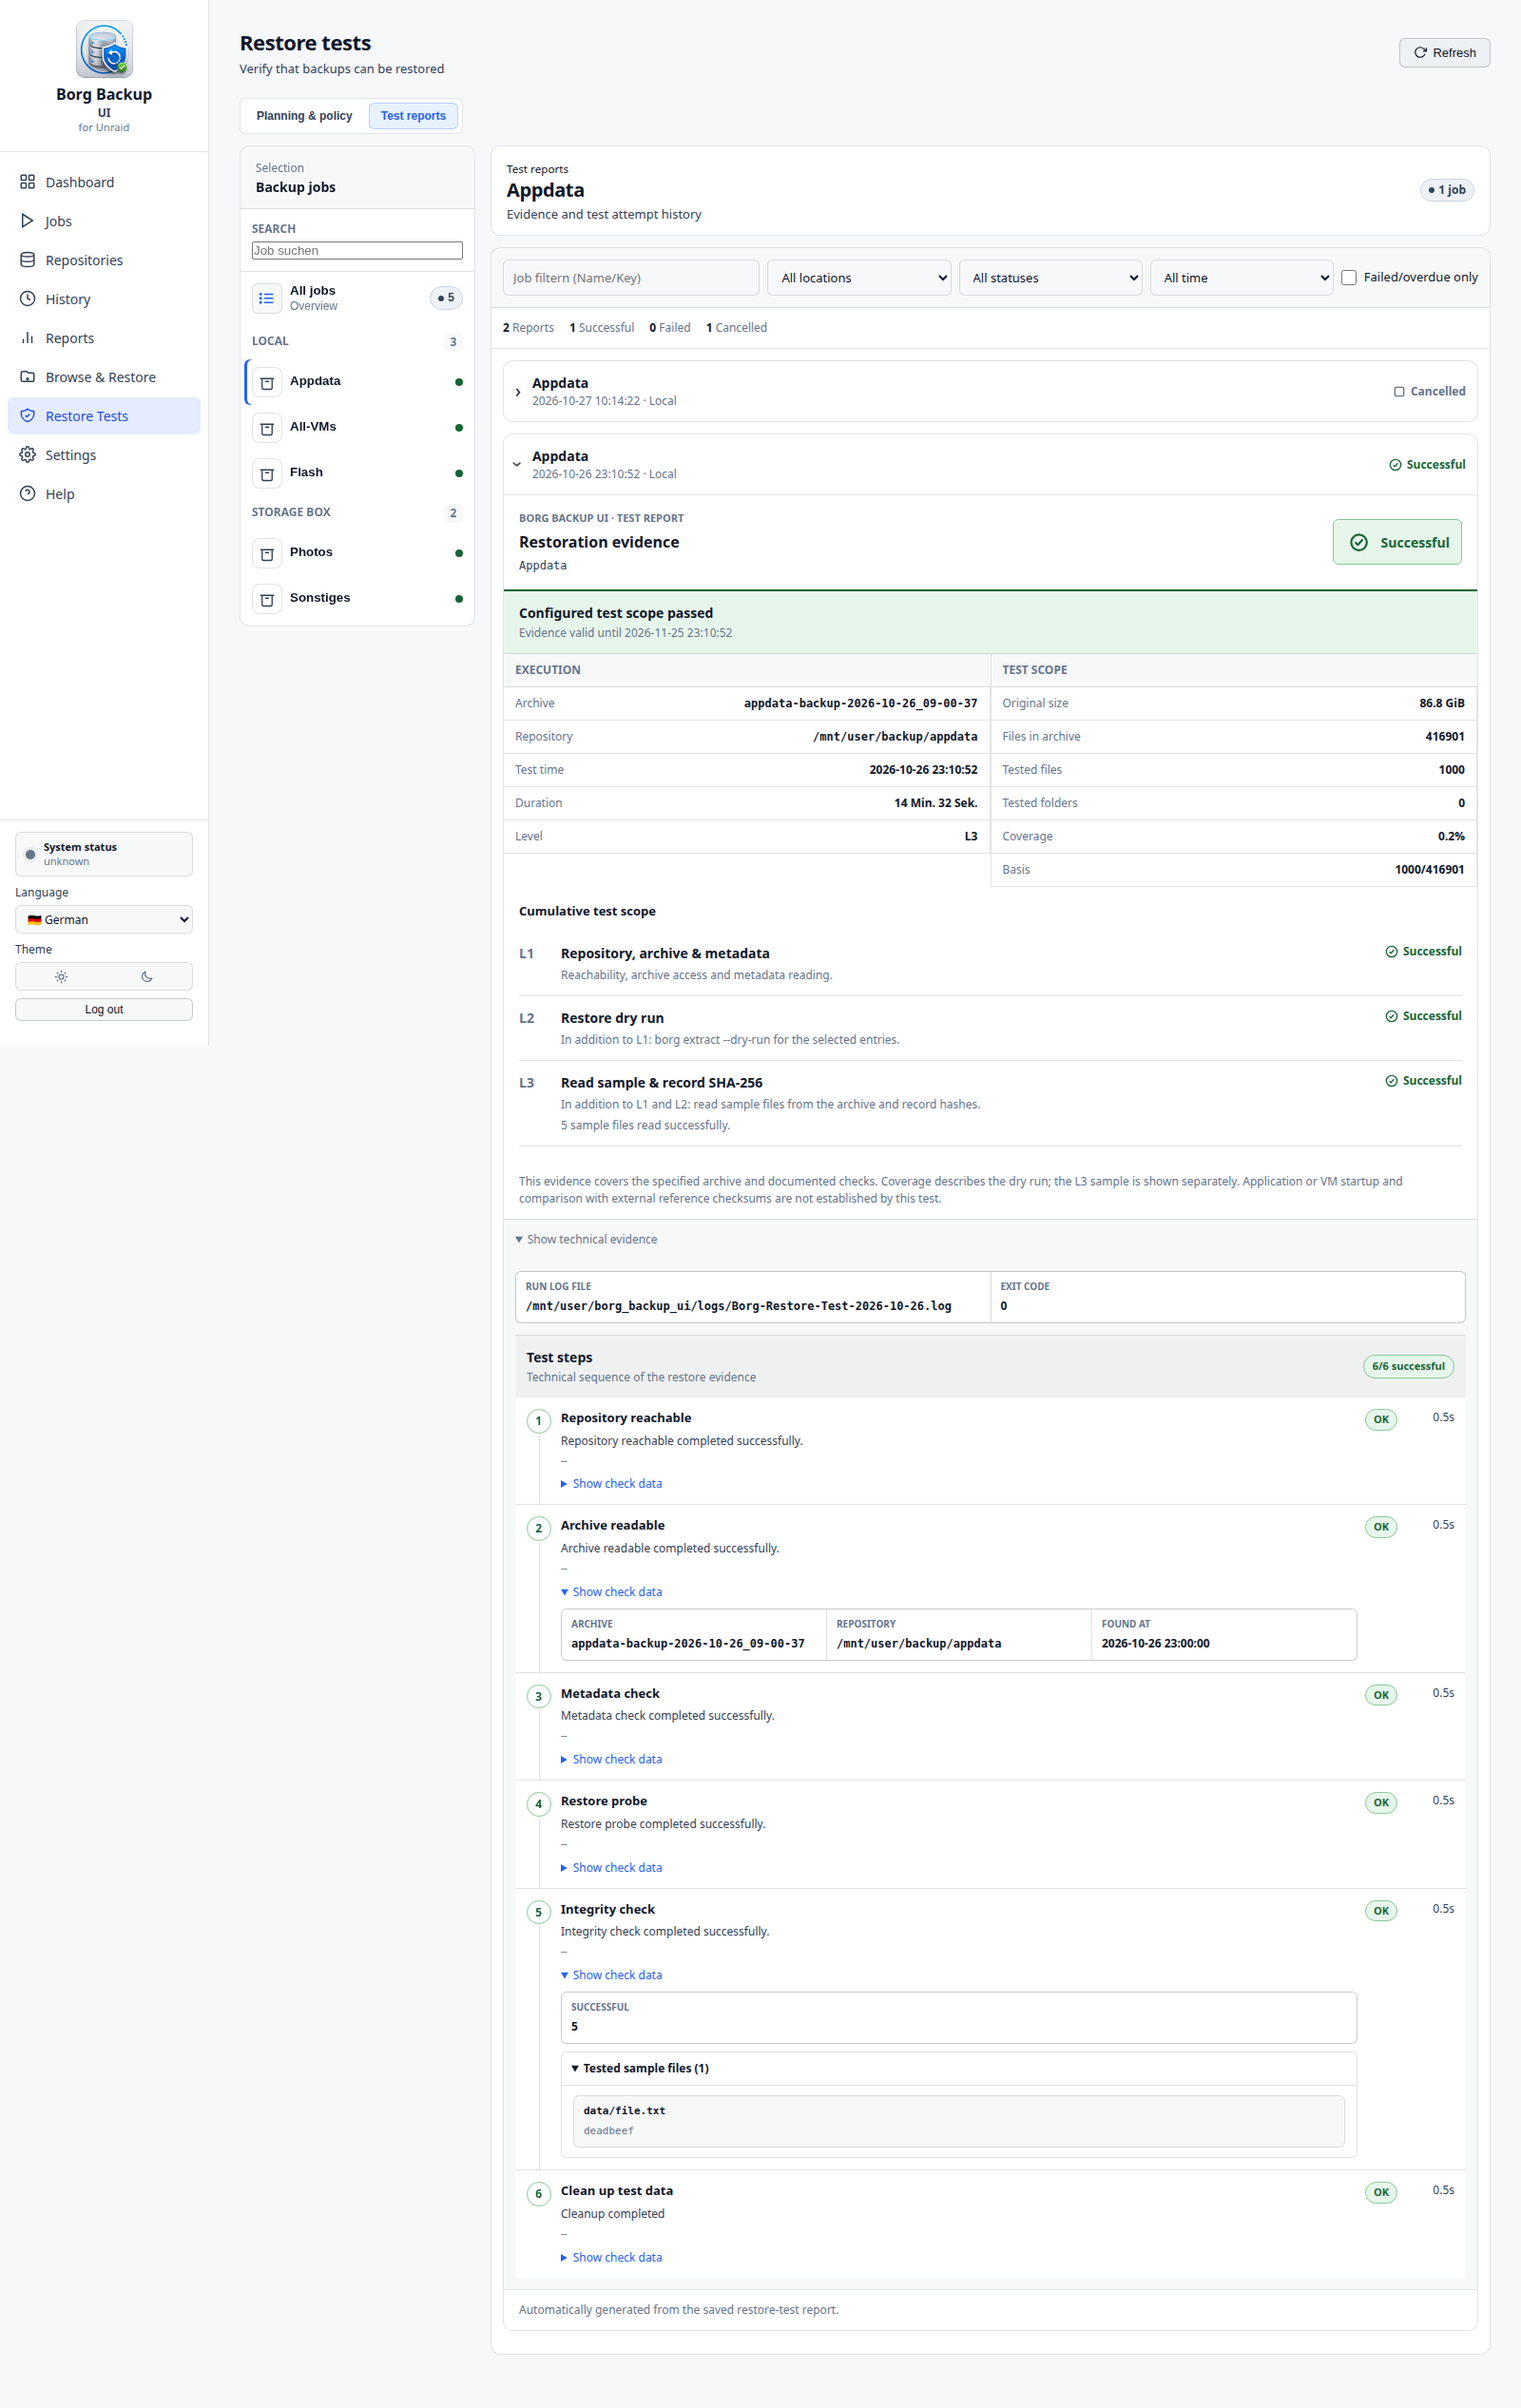
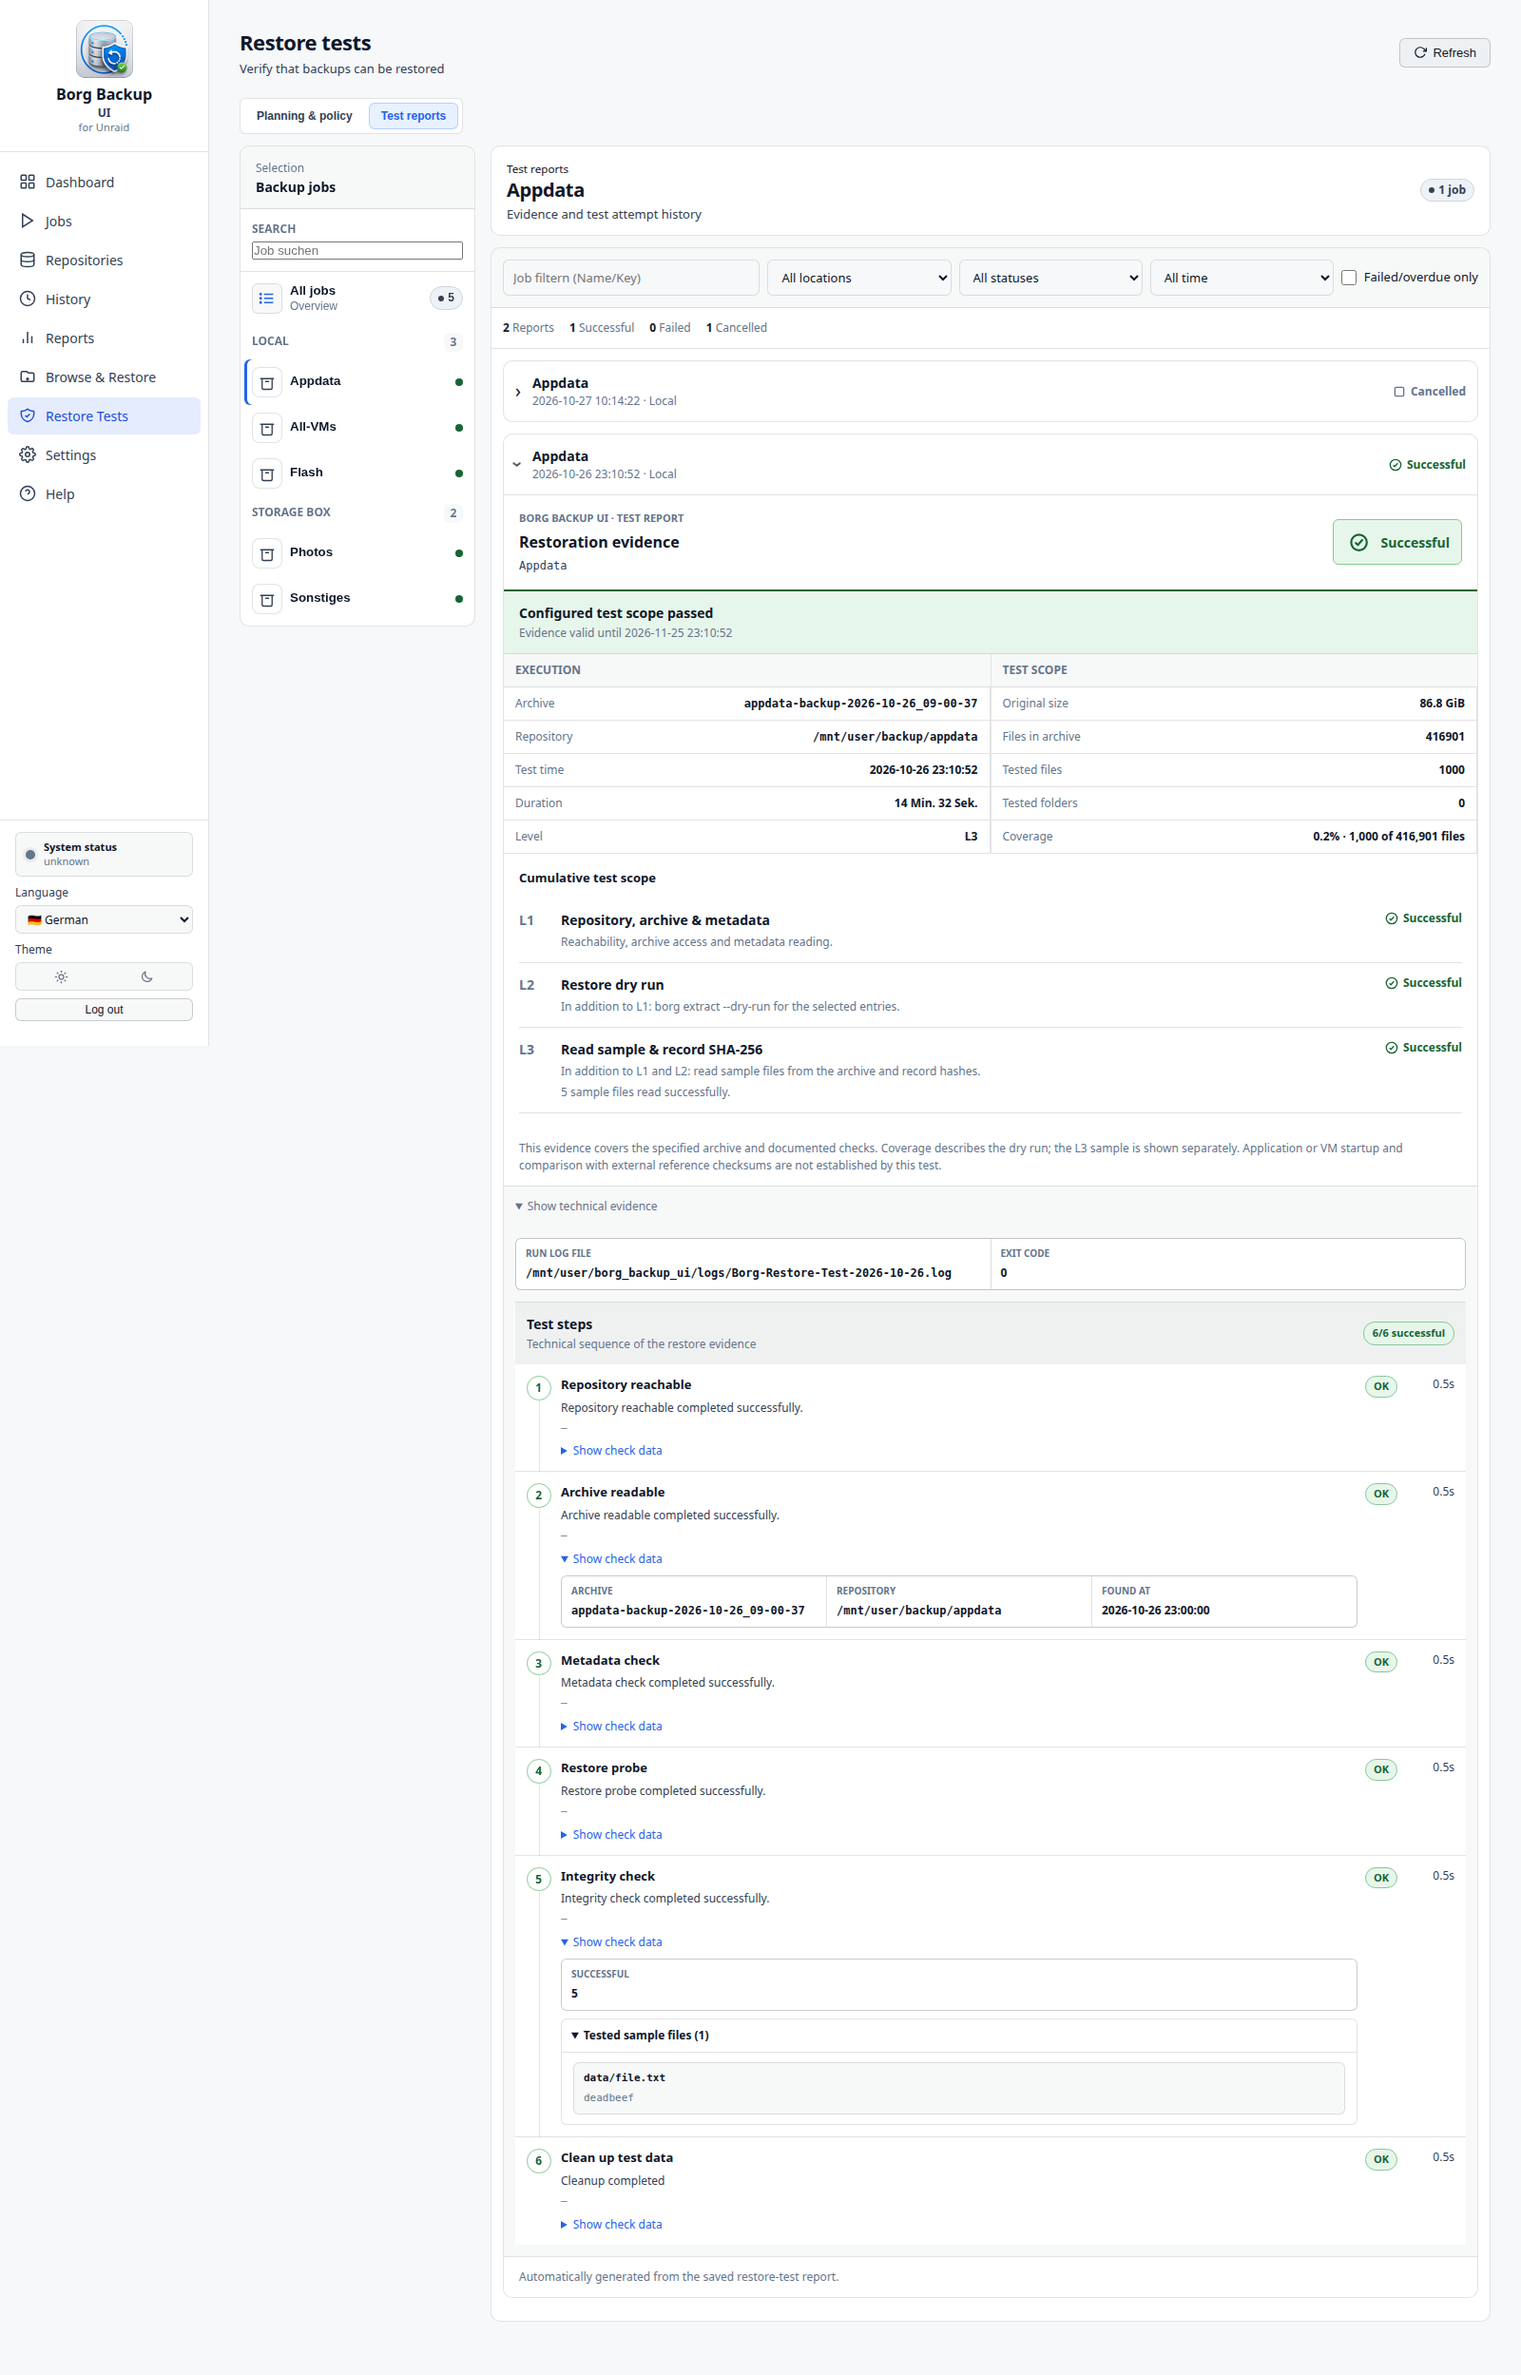
Combine restore coverage and file basis into one report row (#610)

diff --git a/ui/js/pages/restore-tests.js b/ui/js/pages/restore-tests.js
@@ -1030,6 +1030,22 @@ function renderRTLevelEvidence(t, steps) {
   }).join('')}</section>`;
 }
 
+/** Combine recorded coverage and its file-count basis; preserve unrecognized legacy text.
+ * @param {Object} report Stored restore-test report, with optional percentage and basis.
+ * @returns {string} Localized plain text; missing coverage remains unknown.
+ */
+function rtCoverageSummary(report) {
+  const coverage = report.test_coverage_percentage ?? report.coverage_percent;
+  const basis = String(report.coverage_basis ?? '').trim();
+  const counts = basis.match(/^(\d+)\s*\/\s*(\d+)$/);
+  const formatter = new Intl.NumberFormat(restoreTestsLocale());
+  const basisText = counts ? restoreTestsT('coverageFileBasis', {
+    checked: formatter.format(BigInt(counts[1])),
+    total: formatter.format(BigInt(counts[2])),
+  }) : basis;
+  return [coverage != null ? formatCoveragePercent(coverage) : '—', basisText].filter(Boolean).join(' · ');
+}
+
 /** Render an inline report; success is scoped evidence, cancellation is only an attempt. */
 function renderRTReportRow(t, idx, opened = false) {
   const status = rtAttemptStatus(t);
@@ -1038,7 +1054,6 @@ function renderRTReportRow(t, idx, opened = false) {
   const plan = restoreTestsState.plan?.jobs?.find(job => job.job_key === t.job_key);
   const stats = t.archive_stats || {};
   const fmt = t.archive_stats_formatted || {};
-  const coverage = t.test_coverage_percentage ?? t.coverage_percent;
   const validUntil = t.valid_until || t.valid_until_date || (plan?.verification_evidence_date === t.test_date ? plan.verification_valid_until : '');
   const validity = rtEvidenceStale(t) ? 'evidenceExpired' : 'evidencePolicy';
   const archivedProof = (restoreTestsState.data || []).some(r => r.job_key === t.job_key && r.test_date === plan?.verification_evidence_date && r.test_result === 'success' && !rtCancelled(r));
@@ -1066,8 +1081,7 @@ function renderRTReportRow(t, idx, opened = false) {
         [restoreTestsT('archiveFiles'), stats.files_count],
         [restoreTestsT('testedFiles'), t.tested_files_count ?? t.tested_files],
         [restoreTestsT('testedFolders'), t.tested_folders_count],
-        [restoreTestsT('coverage'), coverage != null ? formatCoveragePercent(coverage) : '—'],
-        [restoreTestsT('basis'), t.coverage_basis],
+        [restoreTestsT('coverage'), rtCoverageSummary(t)],
       ])}</div>
       ${renderRTLevelEvidence(t, steps)}
       <p class="rt-proof-scope-note">${escHtml(restoreTestsT(successful ? 'evidenceScopeLimit' : 'attemptScopeLimit'))}</p>

diff --git a/docs/user-manual/de/user-manual.md b/docs/user-manual/de/user-manual.md
@@ -997,7 +997,7 @@ Historie nicht. Textprotokolle liegen im konfigurierten Logverzeichnis
 
 Der Reiter **Prüfberichte** zeigt die einzelnen Versuche als aufklappbare Zeilen. Details öffnen sich direkt darunter über die gesamte Inhaltsbreite. Filter für Job, Standort, Ergebnis und Zeitraum bleiben verfügbar; **Abgebrochen** ist ein eigener Ergebnisfilter.
 
-Ein erfolgreicher Lauf wird als **Wiederherstellungsnachweis** dargestellt. Er nennt das tatsächlich geprüfte Archiv, Repository, Zeitpunkt, Dauer und den dokumentierten Umfang. Die Teststufen bauen aufeinander auf: **L1**, **L1 + L2** und **L1 + L2 + L3**. Jede Stufe zeigt ihr belegtes Ergebnis; nicht ausgewählte Stufen und fehlende Angaben älterer Berichte werden ausdrücklich gekennzeichnet. L3 weist ausgelesene Stichprobendateien und erfasste SHA-256-Werte aus, ohne einen unabhängigen Sollwertvergleich zu behaupten. Ein einziger Bereich **Technische Nachweise** bündelt Prüfschritte und Logdiagnose. Unter **Prüfdaten anzeigen** beim jeweiligen Schritt stehen die zugehörigen Dateilisten, Prüfsummen und Detailwerte. Der wiederholte Ausführungsblock mit Report-ID, Start und Ende entfällt.
+Ein erfolgreicher Lauf wird als **Wiederherstellungsnachweis** dargestellt. Er nennt das tatsächlich geprüfte Archiv, Repository, Zeitpunkt, Dauer und den dokumentierten Umfang. Die Zeile **Abdeckung** kombiniert den Prozentwert mit seiner Dateibasis (geprüfte Dateien von Dateien im Archiv). Die Teststufen bauen aufeinander auf: **L1**, **L1 + L2** und **L1 + L2 + L3**. Jede Stufe zeigt ihr belegtes Ergebnis; nicht ausgewählte Stufen und fehlende Angaben älterer Berichte werden ausdrücklich gekennzeichnet. L3 weist ausgelesene Stichprobendateien und erfasste SHA-256-Werte aus, ohne einen unabhängigen Sollwertvergleich zu behaupten. Ein einziger Bereich **Technische Nachweise** bündelt Prüfschritte und Logdiagnose. Unter **Prüfdaten anzeigen** beim jeweiligen Schritt stehen die zugehörigen Dateilisten, Prüfsummen und Detailwerte. Der wiederholte Ausführungsblock mit Report-ID, Start und Ende entfällt.
 
 **Erfolgreich**, **Fehlgeschlagen**, **Abgebrochen**, **Übersprungen** und **Nicht verfügbar** beschreiben den Versuch. Die Nachweisfrist wird getrennt davon dargestellt; ein historisch erfolgreicher Test wird durch Fristablauf nicht zu einem fehlgeschlagenen Test. Ein Abbruch erzeugt keinen neuen Nachweis. Bestätigt der Server einen weiterhin gültigen vorherigen Nachweis und liegt dessen Bericht vor, führt **Gültigen Nachweis öffnen** direkt dorthin. Ein vorheriger echter Fehler oder abgelaufener Nachweis wird dadurch nicht verdeckt.
 

diff --git a/docs/user-manual/en/user-manual.md b/docs/user-manual/en/user-manual.md
@@ -985,7 +985,7 @@ log `/var/log/borg_backup_ui.log`, not automatically to Unraid syslog.
 
 The **Test reports** tab shows individual attempts as expandable rows. Details open directly below across the content width. Job, location, result and date filters remain available; **Cancelled** is a separate result filter.
 
-A successful run is presented as **Restoration evidence**, identifying the actual archive, repository, timestamp, duration and documented scope. Levels are cumulative: **L1**, **L1 + L2** and **L1 + L2 + L3**. Each level displays its recorded result; excluded levels and missing legacy report details are explicitly identified. L3 identifies sample files read and SHA-256 hashes recorded without claiming an independent expected-hash comparison. A single **Technical evidence** section combines checks and log diagnostics. **Show check data** below each check reveals its file lists, hashes and detail values. The repeated execution block with report ID, start and end is omitted.
+A successful run is presented as **Restoration evidence**, identifying the actual archive, repository, timestamp, duration and documented scope. The **Coverage** row combines the percentage with its file-count basis (checked files out of archive files). Levels are cumulative: **L1**, **L1 + L2** and **L1 + L2 + L3**. Each level displays its recorded result; excluded levels and missing legacy report details are explicitly identified. L3 identifies sample files read and SHA-256 hashes recorded without claiming an independent expected-hash comparison. A single **Technical evidence** section combines checks and log diagnostics. **Show check data** below each check reveals its file lists, hashes and detail values. The repeated execution block with report ID, start and end is omitted.
 
 **Successful**, **Failed**, **Cancelled**, **Skipped** and **Unavailable** describe the attempt. Evidence validity is shown separately; expiry does not change a historically successful test into a failed test. Cancellation creates no new evidence. When the server confirms that previous evidence remains valid and its report is available, **Open valid evidence** opens that report directly. An intervening real failure or expired evidence is not hidden.
 

diff --git a/release-notes/pending/610.md b/release-notes/pending/610.md
@@ -3,3 +3,4 @@
 - Simplify Restore Tests planning to four columns with compact counts, inline result labels, an action menu, and collapsible guidance. Keep start/cancel and schedule editing available. (#610)
 - Present successful reports as scoped restoration evidence with cumulative L1, L1 + L2 and L1 + L2 + L3 checks. Keep test attempts separate from evidence validity and link cancelled attempts to existing valid evidence. Preserve report filters, technical details, and retained reports. (#610)
 - Consolidate technical evidence into one expandable section, attach supporting data to each check and remove the repeated report ID/start/end execution block. Use thin separators and the normal report surface for technical fields. (#610)
+- Combine coverage percentage and its file-count basis in one report row so execution and test scope have a balanced five-row layout. (#610)
